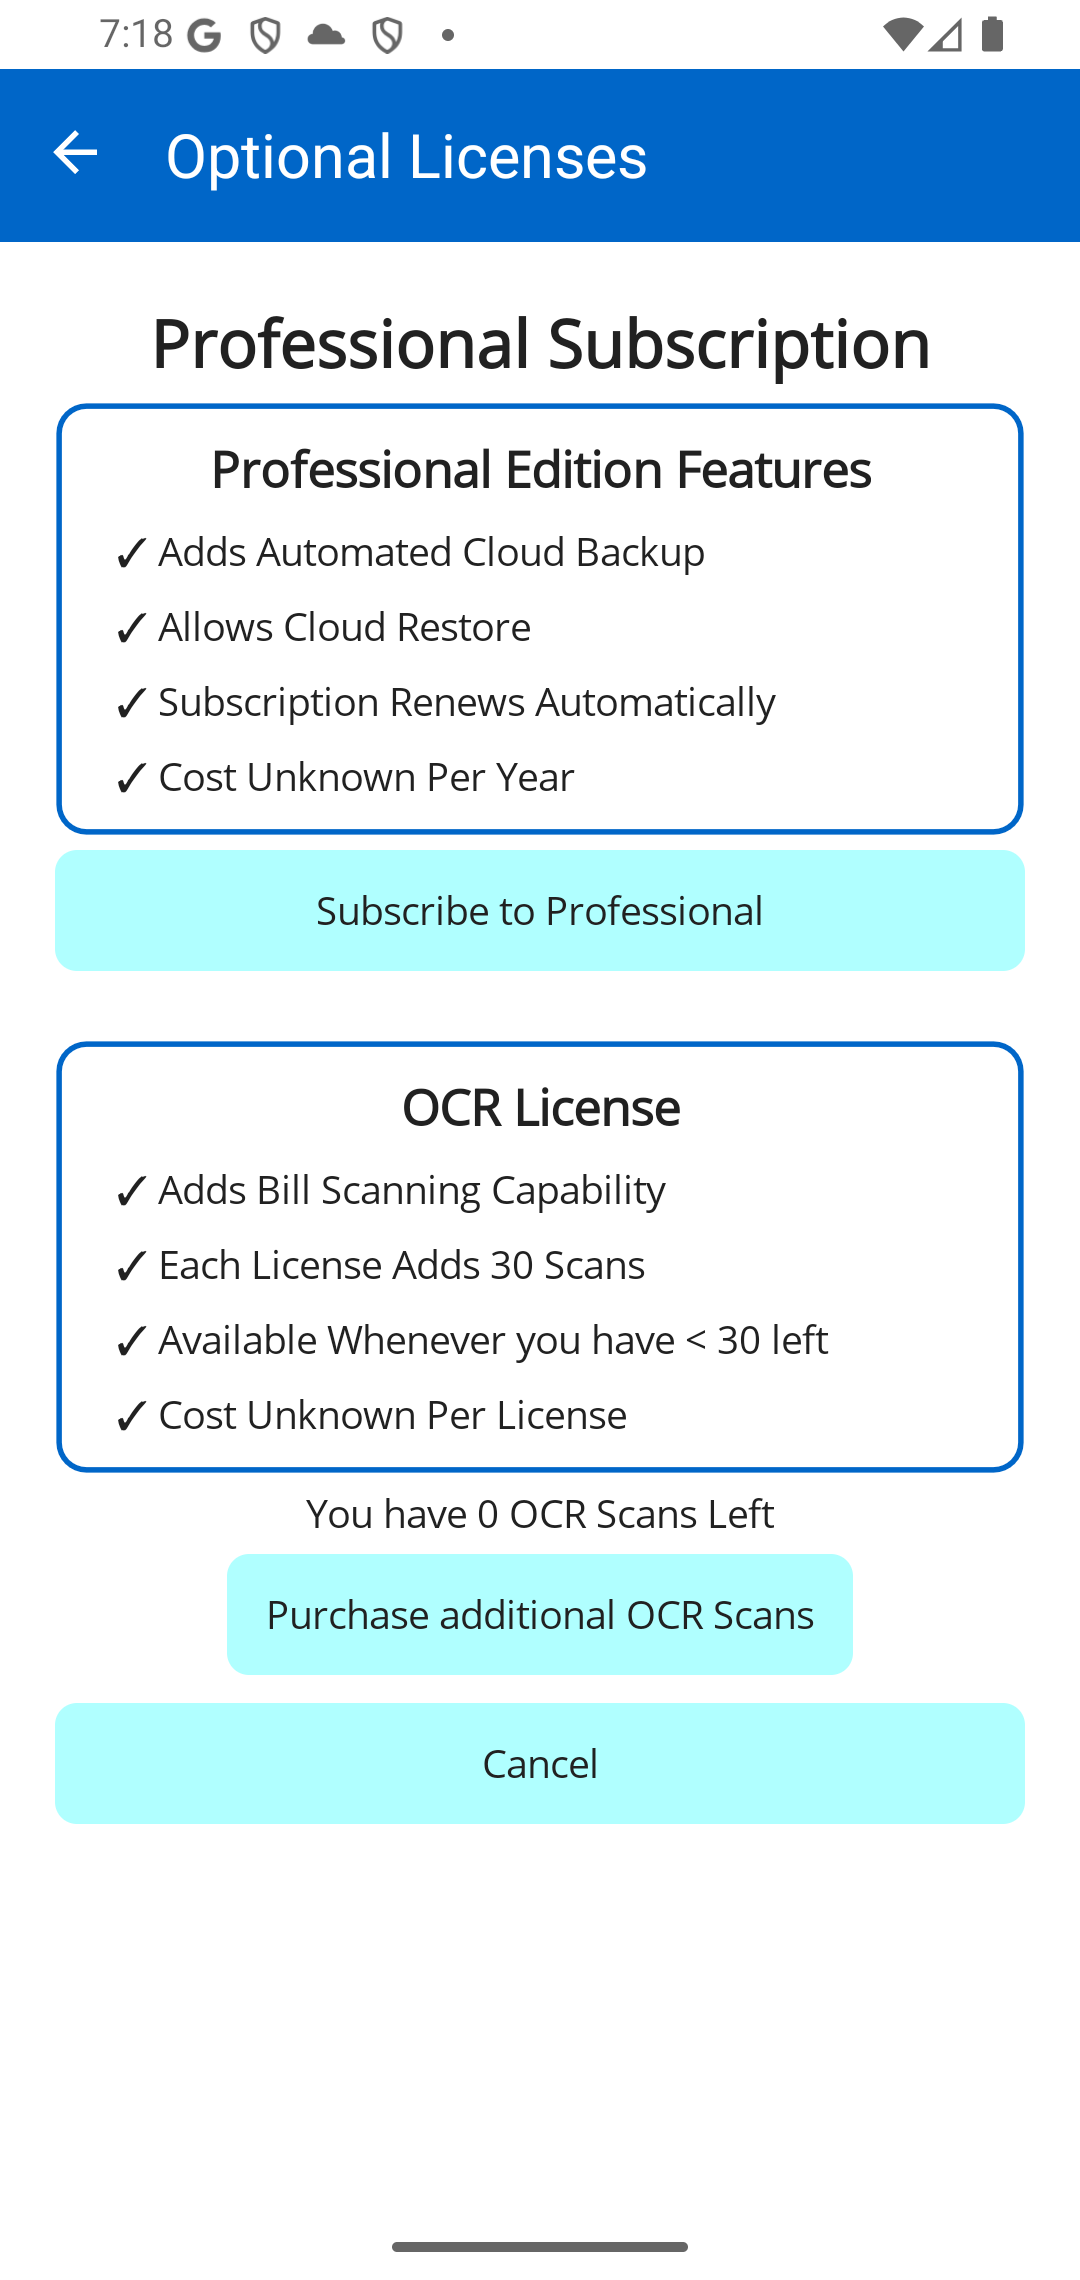
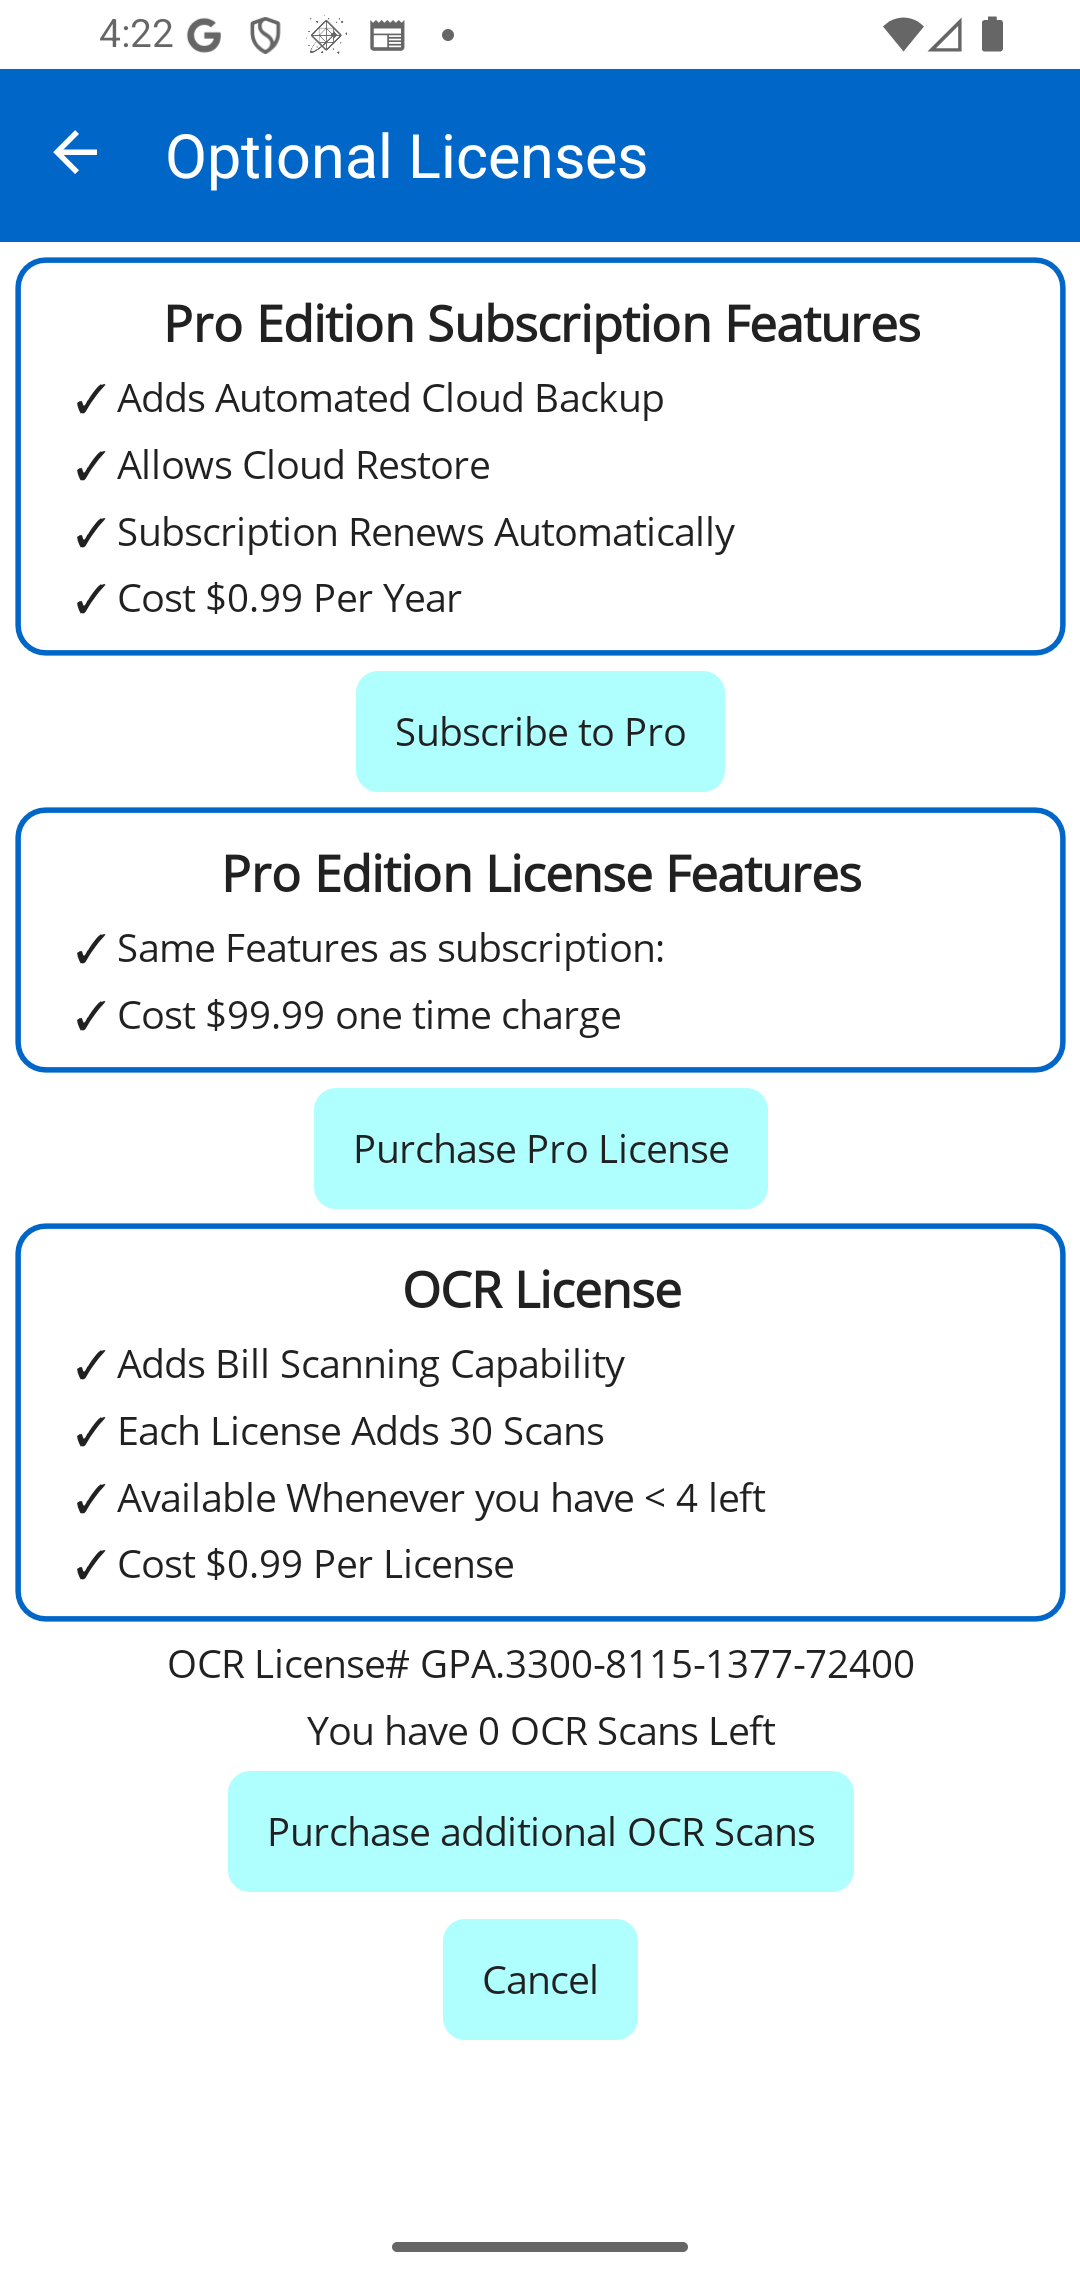
Update to 6.3.36

diff --git a/site/divisibill/licensing.html b/site/divisibill/licensing.html
@@ -9,12 +9,12 @@
 </head>
 <body>
 <h1 id="licensing">Licensing</h1>
-<p>The Basic Edition of DivisiBill is free and does not show ads. It is possible to purchase a couple of additional features on the <a href="settingspagebasic.html">settings</a> page, both are optional; the app works without them. You can use this page to <a href="licensesglossary.html#subscribe">subscribe to the Professional Edition</a> or <a href="licensesglossary.html#scans">purchase packages of OCR scans</a> (for more details on OCR, see below).</p>
-<p>The Professional Edition annual subscription enables automated cloud storage and backup for bills, venue lists, people lists, and selected program properties. It will renew automatically once a year until you cancel it. As an alternative you can use the archive and restore buttons on the <a href="datamanagementpage.html">Manage Data</a> page to back these things up, or rely on  <a href="https://developer.android.com/identity/data/autobackup">Android AutoBackup</a>. The subscription renews automatically unless you elect not to renew it; you can cancel at any time but there are no refunds for unused time.</p>
+<p>The Basic Edition of DivisiBill is free and does not show ads. It is possible to purchase a couple of additional features on the <a href="licensespage.html">Licenses</a> page which you reach from the <a href="settingspagebasic.html">settings</a> page, licenses are optional; the app works without them. You can use this page to <a href="licensesglossary.html#subscribe">subscribe to the Professional Edition</a>, <a href="licensesglossary.html#purchase">purchase a perpetual license to the Professional Edition</a>, or <a href="licensesglossary.html#scans">purchase packages of OCR scans</a> (for more details on OCR, see below).</p>
+<p>The Professional Edition enables automated cloud storage and backup for bills, venue lists, people lists, and selected program properties. The subscription will renew automatically once a year until you cancel it, the perpetual license is, well, perpetual, you buy it once. As an alternative to the Professional Edition, you can use the archive and restore buttons on the <a href="datamanagementpage.html">Manage Data</a> page to back these things up, or rely on  <a href="https://developer.android.com/identity/data/autobackup">Android AutoBackup</a>. The subscription renews automatically unless you elect not to renew it; you can cancel at any time but there are no refunds for unused time.</p>
 <p>The <a href="settingspage.html">settings</a> page for the Professional Edition has some additional options in order to support automated cloud backup. In practice most users can rely on <a href="https://developer.android.com/identity/data/autobackup">Android AutoBackup</a> to store copies of all DivisiBill data stored on an Android device in their Google Drive account, but the Professional Edition subscription provides additional control and security (files may optionally be encrypted with a password of your choice).</p>
 <h2 id="ocr">OCR</h2>
 <p>OCR stands for Optical Character Recognition. In DivisiBill it is used by a cloud-based service to scan a picture of a bill into item names, amounts, and a few other useful values (tax, for example). It cannot help you distribute the cost of items - only you know who the participants were and what each one had - but it can take a lot of the tedium out of the item data entry process and make it less error prone.</p>
-<p>Each OCR scan costs a few cents. You can  <a href="licensesglossary.html#scans">purchase packages of OCR scans</a> in both Pro and Basic Edition. You will retain any OCR credits through an upgrade or if you uninstall and reinstall DivisiBill on the same or a different device. You can use the same account on multiple devices, and each device will decrement your remaining OCR scan count when you perform a scan from it.</p>
+<p>Each OCR scan costs a few US cents. You can <a href="licensesglossary.html#scans">purchase packages of OCR scans</a> in both Pro and Basic Edition. You will retain any OCR credits through an upgrade or if you uninstall and reinstall DivisiBill on the same or a different device. You can use the same account on multiple devices, and each device will decrement your remaining OCR scan count when you perform a scan from it.</p>
 <p>Modern mobile phones can take very high resolution pictures, which are unnecessarily large and detailed for OCR. DivisiBill reduces the resolution and converts the images to black and white to save storage space and analysis time. These files will be saved along with all the other device state by <a href="https://developer.android.com/identity/data/autobackup">Android AutoBackup</a>.</p>
 
 <script src="script.js"></script>

diff --git a/site/divisibill/releasenotes.html b/site/divisibill/releasenotes.html
@@ -8,6 +8,26 @@
     <link rel="stylesheet" href="styles.css">
 </head>
 <body>
+<h1 id="version-6336">Version 6.3.36</h1>
+<h2 id="select-default-bill-correctly">Select Default Bill Correctly</h2>
+<p>If the current bill is too old to continue with when starting the app, we select the most recent bill from the closest venue to the current location. This means we must wait for the current location discovery process to complete before doing that. The previous release did not always wait long enough, so the wrong default bill could be selected.</p>
+<h1 id="version-6335">Version 6.3.35</h1>
+<h2 id="add-support-for-one-time-pro-license-purchase">Add Support for One-time Pro License Purchase</h2>
+<p>It is now possible to acquire a one-time Pro license instead of an annual subscription. The one-time license enables exactly the same features as a subscription and is valid for the current version and all future versions of DivisiBill. These are especially useful for license testing, which is not a concern for most users, for whom a subscription is a much better deal.</p>
+<h2 id="speed-up-initialization">Speed Up Initialization</h2>
+<p>Location evaluation is now done in parallel with application initialization since it is not needed right away. This shortens the elapsed startup time by several seconds.</p>
+<h2 id="correct-minor-location-issue">Correct Minor Location Issue</h2>
+<p>When location was not in use remote-only bills showed as &quot;close&quot; instead of showing nothing at all, this has been corrected.</p>
+<h2 id="correct-archiverestore">Correct Archive/Restore</h2>
+<p>Restoring from an archive containing alias entries (which is rare) could fail, this change corrects that.</p>
+<h2 id="improve-initial-handling">Improve Initial Handling</h2>
+<p>The behavior of DivisiBill after a clean install has been tidied up. A variety of minor issues have been eliminated.</p>
+<h1 id="version-6334">Version 6.3.34</h1>
+<h2 id="no-user-visible-changes">No User Visible Changes</h2>
+<p>This release enhances security and improves various diagnostics but there are no user visible changes.</p>
+<h1 id="version-6333">Version 6.3.33</h1>
+<h2 id="failure-to-purchase-licenses">Failure to Purchase Licenses</h2>
+<p>Attempts to buy subscriptions or OCR licenses always failed, this version corrects that.</p>
 <h1 id="version-6332">Version 6.3.32</h1>
 <h2 id="improved-license-checking">Improved License Checking</h2>
 <p>Licenses are now checked periodically in the background so unless a licensed DivisiBill is not used in more than a week it should be possible to speed initialization by leaving it running. Normally no license check will be needed when it is revisited. You can force a license check by shutting it down and restarting it.</p>

diff --git a/site/divisibill/licensesglossary.html b/site/divisibill/licensesglossary.html
@@ -14,12 +14,16 @@
 <p>This allows you to purchase a Professional Edition subscription to enable cloud operations in DivisiBill; without a subscription you should use manual archive/restore instead. For more details, see <a href="licensing.html">this</a> page. Once you purchased a subscription, this button is replaced by the &quot;Modify&quot; button.</p>
 <h2 id="modify">Modify</h2>
 <p>If you have already purchased the Professional Edition, this button replaces the subscribe button and opens up a web site to permit you to view, modify or cancel your subscription.</p>
+<h2 id="purchase">Purchase</h2>
+<p>This allows you to purchase a perpetual Professional Edition license to enable cloud operations in DivisiBill; it provides exactly the same features as a subscription but instead of an annual fee you make a one-time payment. Once you purchased a license, this button is replaced by the &quot;Delete&quot; button.</p>
+<h2 id="delete">Delete</h2>
+<p>This allows you to delete your perpetual Professional Edition license - there is no obvious reason why you might want to do this but the capability exists.</p>
 <h2 id="status">Status</h2>
-<p>This shows you your Pro Subscription order number if you have purchased the Professional Edition.</p>
+<p>This shows you your purchase order number if you have purchased OCR scans (there's a similar display for professional licenses or subscriptions).</p>
 <h2 id="scans">Scans</h2>
 <p>All versions of DivisiBill allow you to purchase &quot;scans&quot; to extract information from a picture of a printed bill, using cloud-based OCR scanning from the <a href="imagepage.html">Image</a> page. Each OCR operation consumes one scan; when the number of scans remaining reaches zero, you must buy more before another OCR operation will be allowed. (For more details see <a href="licensing.html">this</a> page.) If you have scans remaining, this area will show you how many are left and the most recent OCR order number. If you only have a few remaining, it will enable the &quot;Purchase Scans&quot; button to order additional scans.</p>
 <h2 id="purchase-scans">Purchase Scans</h2>
-<p>This button is only visible when you have a small number of scans remaining, tap it to purchase more scans.</p>
+<p>This button is only enabled when you have a small number of scans remaining, tap it to purchase more scans.</p>
 <h2 id="cancel">Cancel</h2>
 <p>This button allows you to return to the Settings page without doing anything.</p>
 

diff --git a/site/divisibill/index.html b/site/divisibill/index.html
@@ -50,7 +50,7 @@ page. The main pages are:</p>
 <p>Otherwise it connects only when you specifically request it to (for example, in order to back up and recover files or send mail). If a crash should occur, the next run of DivisiBill will ask you if you wish to report it. All these activities are anonymous, though lists of people and venue names could give away information about you.</p>
 <h2 id="data-deletion-policy">Data Deletion Policy</h2>
 <p>Professional Edition Subscribers may delete their cloud based data (bills and/or lists of people or venues) at any time through DivisiBill, by canceling their subscription, or by sending an email request to <a href="mailto:support@autopl.us">DivisiBill Support</a> along with their Professional Subscription order number (DivisiBill will add this to the mail automatically, just don't delete it). Once a Professional Subscription ends (either by being canceled or not being renewed) the corresponding cloud based data will be removed. The source of this data is anonymous though the data itself may give some clues, especially to the users location.</p>
-<p style="Text-align:center; font-size: 0.8em">Updated July 2026 for version 6.3.32</p>
+<p style="Text-align:center; font-size: 0.8em">Updated August 2026 for version 6.3.36</p>
 
 <script src="script.js"></script>
 </body>
